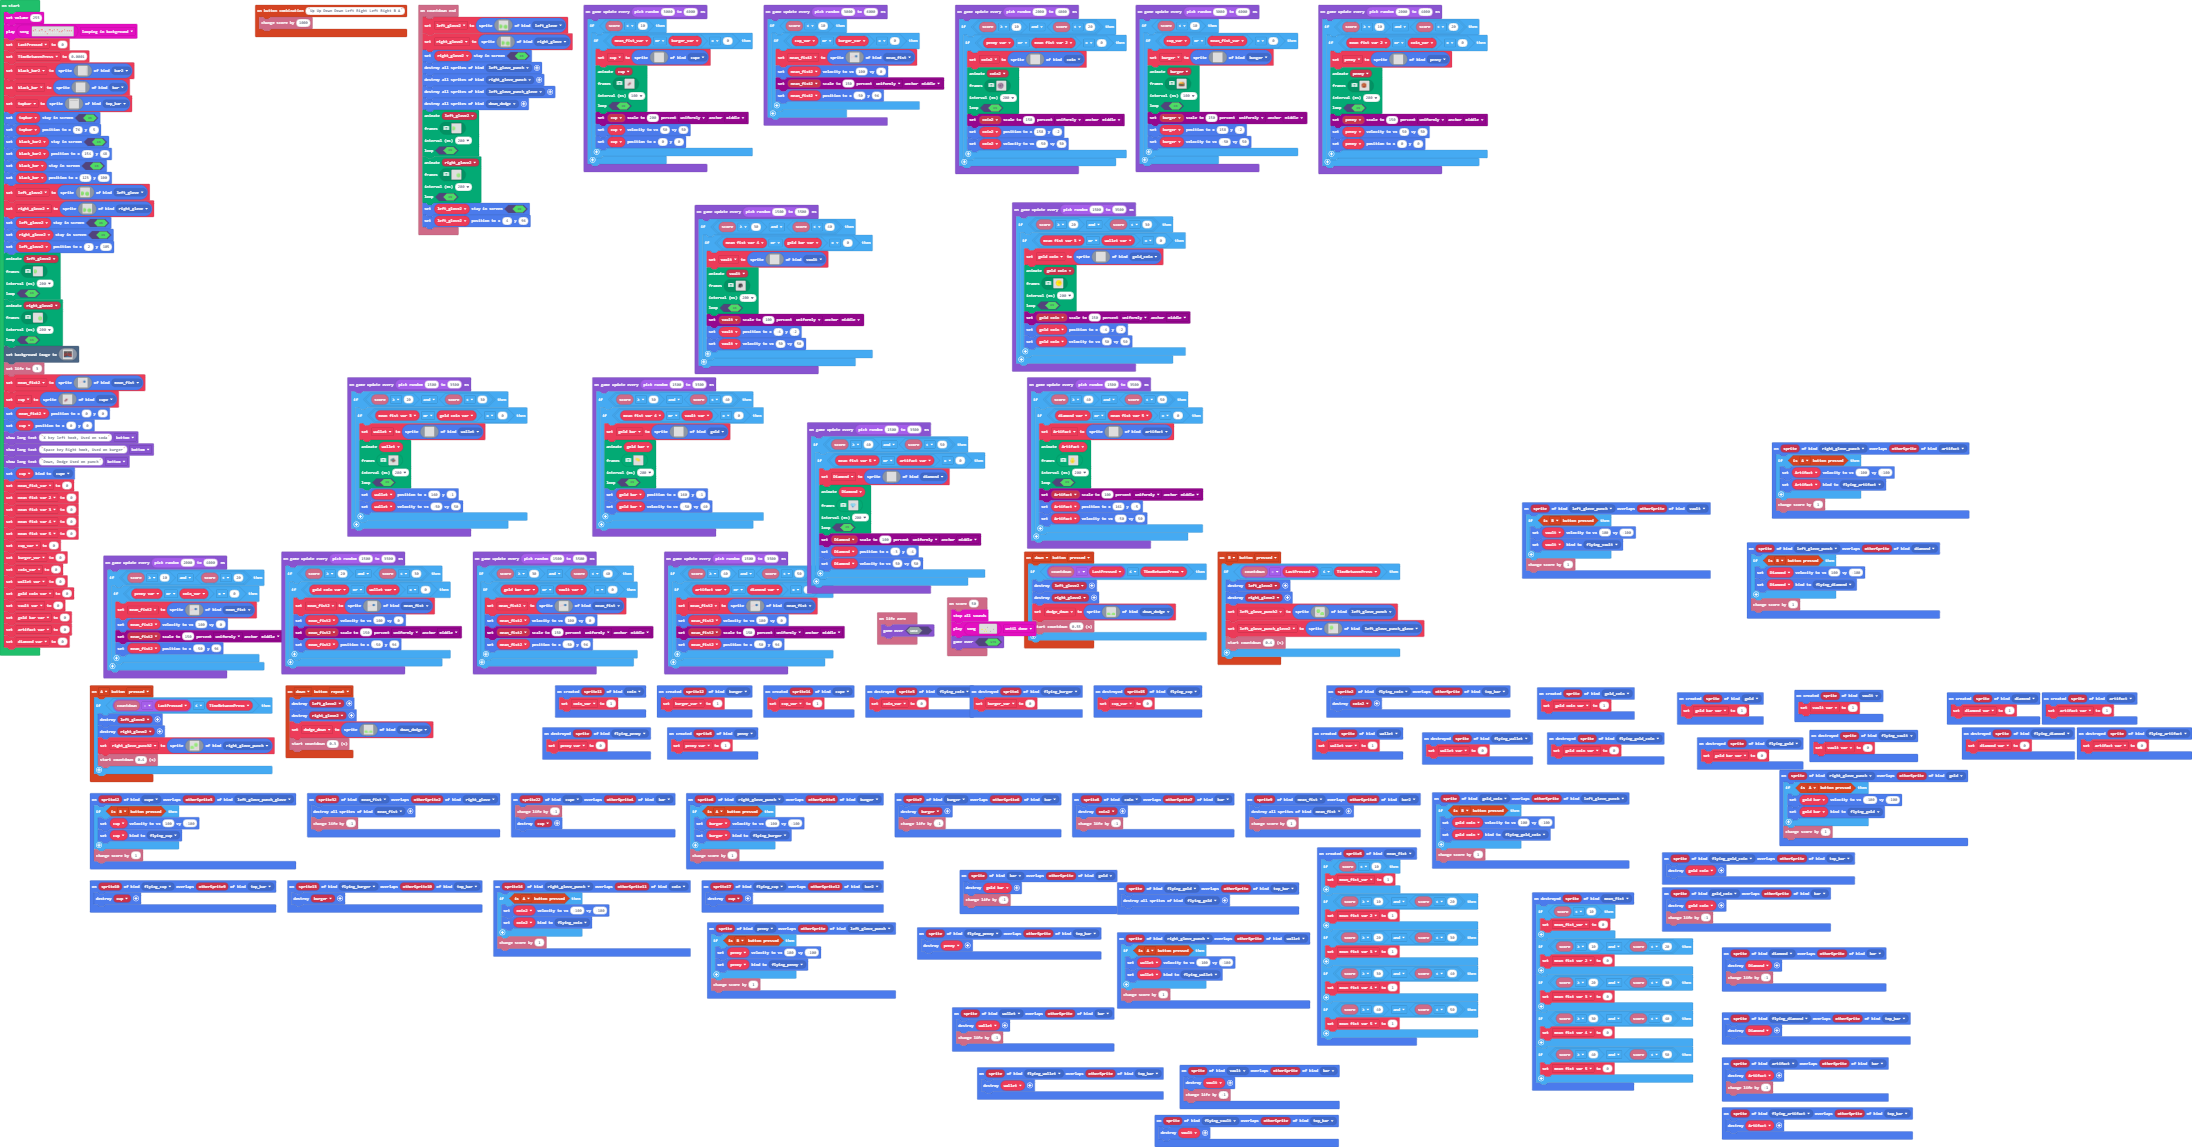
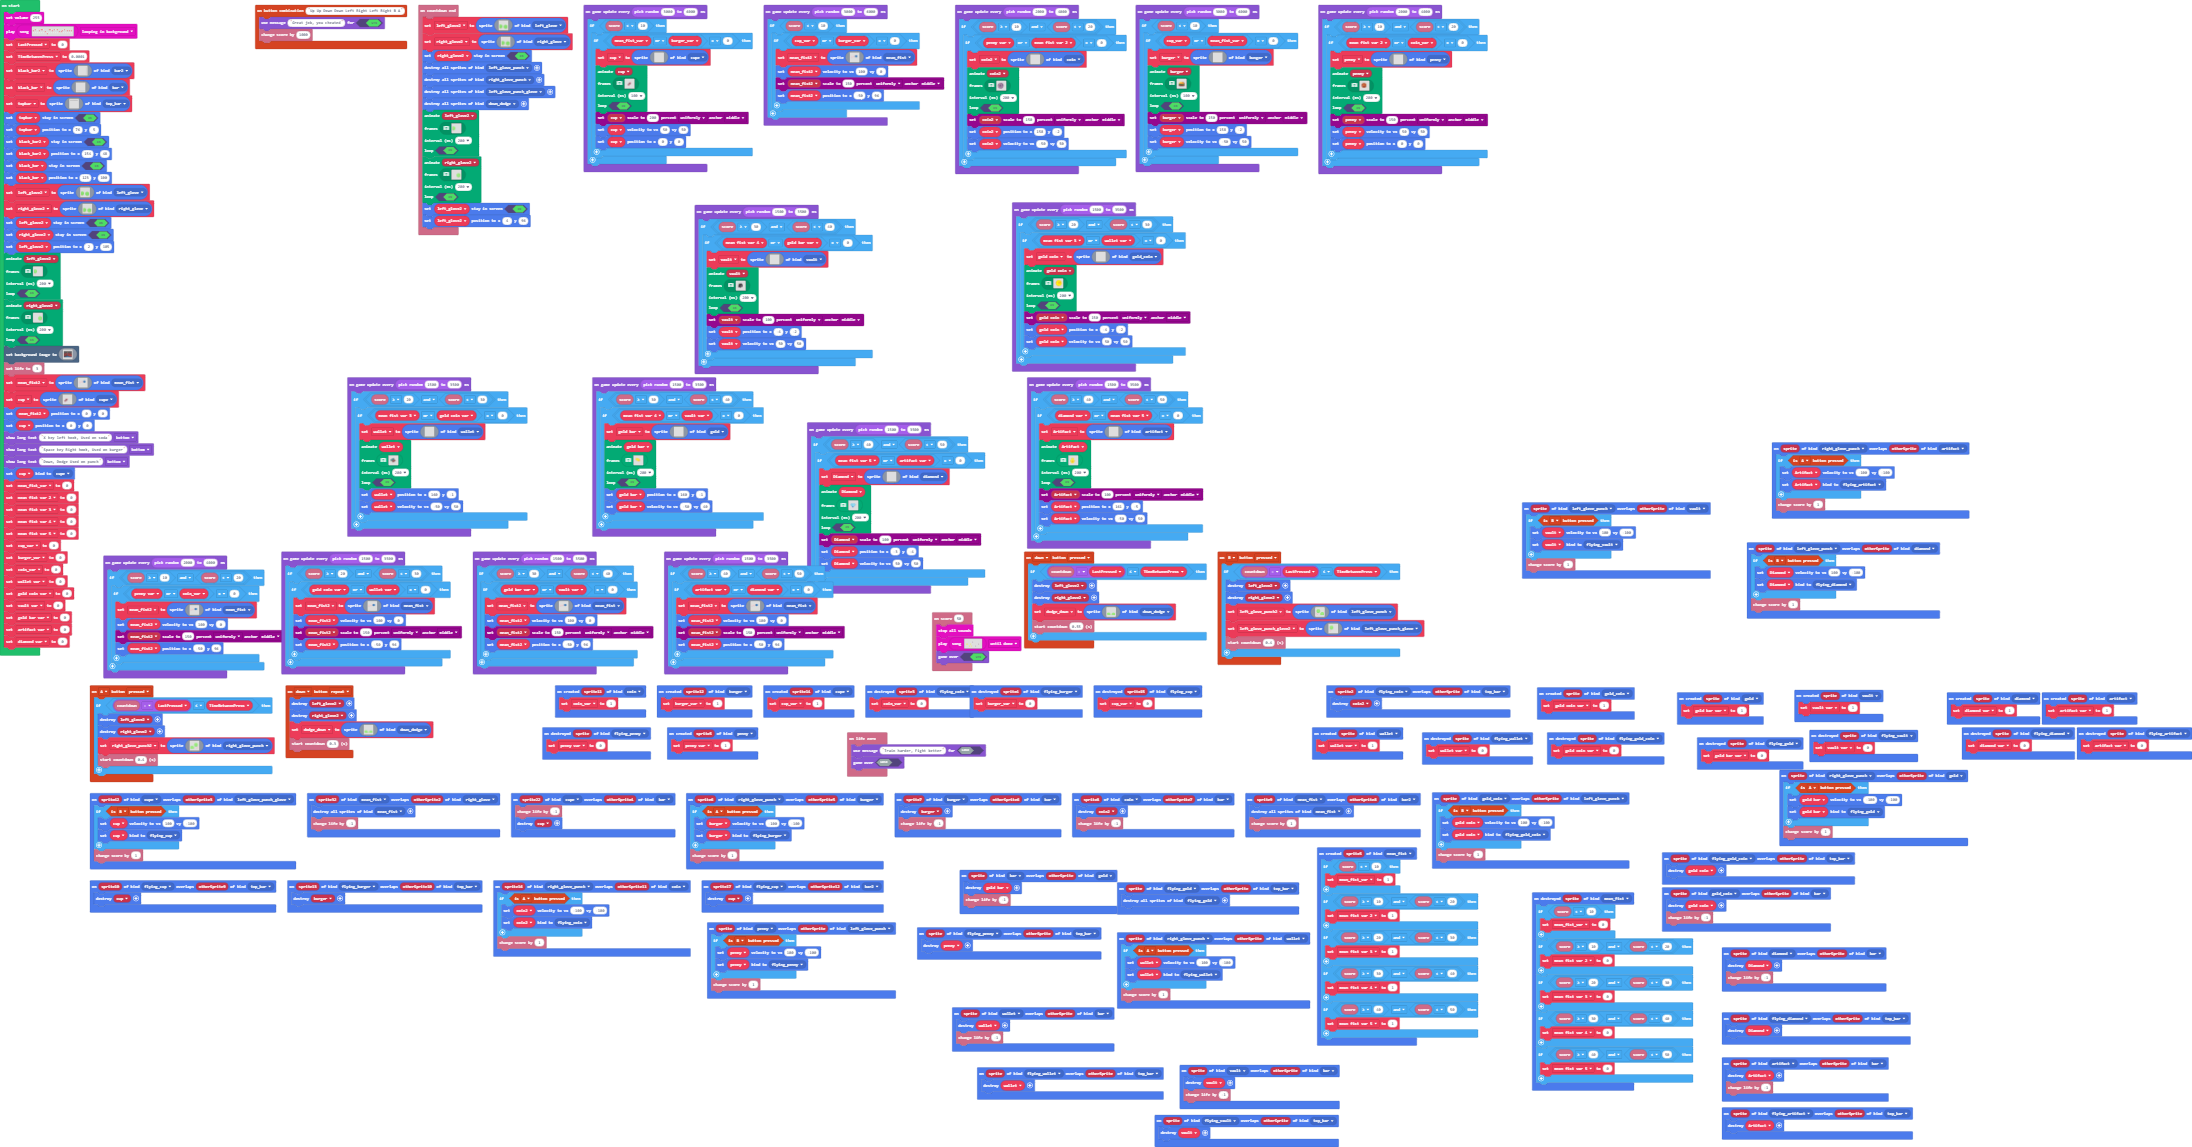
Update main.blocks, main.ts, images.g.jres, images.g.ts

Changed region(s): [[0.0931, 0.0, 0.1861, 0.061], [0.4033, 0.5187, 0.4653, 0.5798], [0.3723, 0.6408, 0.4653, 0.7018]]

diff --git a/images.g.ts b/images.g.ts
@@ -18,7 +18,7 @@ namespace myImages {
     helpers._registerFactory("song", function(name: string) {
         switch(helpers.stringTrim(name)) {
             case "song1":
[2 lines of base64/hex data omitted]
         }
         return null;
     })

diff --git a/main.ts b/main.ts
@@ -1974,6 +1974,7 @@ sprites.onCreated(SpriteKind.gold, function (sprite) {
     gold_bar_var = 1
 })
 info.onLifeZero(function () {
+    game.setGameOverMessage(false, "Train harder, Fight better")
     game.gameOver(false)
 })
 info.onScore(50, function () {
@@ -2034,6 +2035,7 @@ sprites.onDestroyed(SpriteKind.flying_cup, function (sprite15) {
     cup_var = 0
 })
 controller.combos.attachCombo("Up Up Down Down Left Right Left Right B A", function () {
+    game.setGameOverMessage(true, "Great job, you cheated")
     info.changeScoreBy(1000)
 })
 sprites.onOverlap(SpriteKind.bunger, SpriteKind.bar, function (sprite7, otherSprite6) {
